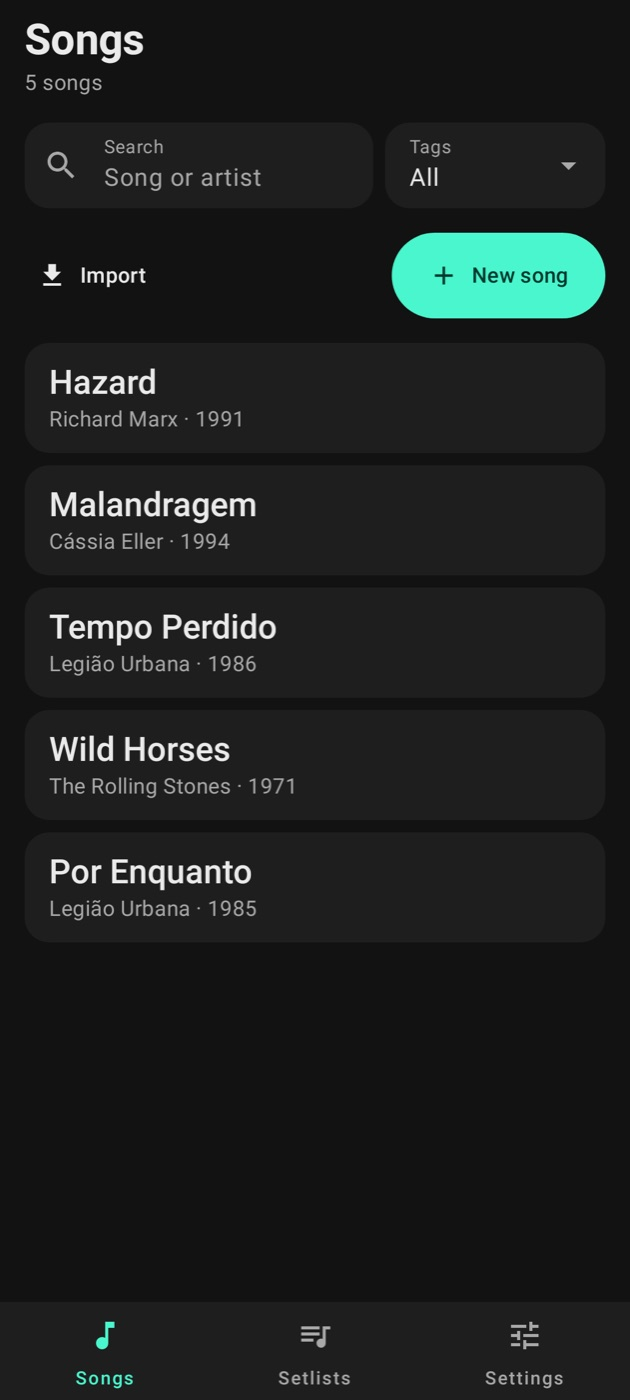
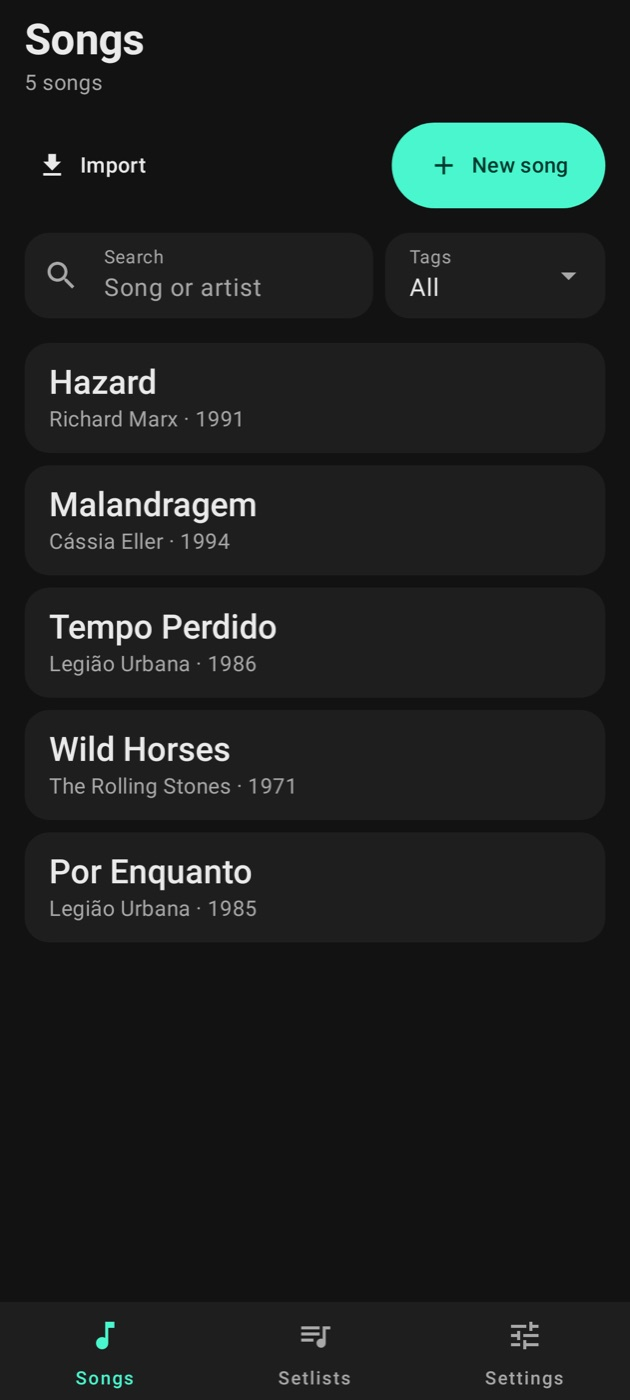
Songs keeps its buttons where Setlists has them · Músicas com os botões no mesmo lugar de Setlists
Import and New come first and the search sits next to the list it filters, so the buttons stay put when switching
tabs.

Import e Novo vêm primeiro e a busca fica colada na lista que ela filtra: os botões não mudam de lugar na troca de aba.

Release-Note: Songs and Setlists have their buttons and search in the same place · Músicas e Setlists têm os botões e a busca no mesmo lugar

Changed region(s): [[0.6032, 0.0614, 0.9651, 0.2457], [0.0603, 0.0921, 0.4222, 0.1536], [0.0603, 0.1843, 0.4222, 0.215]]

diff --git a/app/src/main/java/br/app/stagebook/ui/songs/SongsScreen.kt b/app/src/main/java/br/app/stagebook/ui/songs/SongsScreen.kt
@@ -189,18 +189,18 @@ fun SongsScreen(
                 subtitle = br.app.stagebook.ui.components.songCountText(uiState.total),
                 modifier = Modifier.padding(top = Spacing.s, bottom = Spacing.m),
             ) { br.app.stagebook.ui.components.HomeStatusIcons() }
-            SearchWithTags(
-                query, onQueryChange, stringResource(R.string.songs_search), uiState.tags, uiState.chosenTags, onTagsChange,
-                // selecting, the Import/New row goes away: the list keeps its distance from the search
-                Modifier.padding(bottom = if (selecting) Spacing.m else 0.dp),
-            )
-            // while selecting, the actions are in the top bar
-            if (!selecting) Row(Modifier.padding(vertical = Spacing.m), horizontalArrangement = Arrangement.spacedBy(Spacing.s)) {
+            // while selecting, the actions are in the top bar. Actions first, then what acts on the list next to it: same
+            // order as the Setlists tab
+            if (!selecting) Row(Modifier.padding(bottom = Spacing.m), horizontalArrangement = Arrangement.spacedBy(Spacing.s)) {
                 // secondary at the start, the main action at the end (like Google's apps). Import from sites (with
                 // internet), scan the QR or type the code: one button, one menu.
                 ImportButton(online, onScan, onReceiveCode, Modifier.weight(1f), onSites = onImport, received = received, onReceived = onReceived, onSync = onSync, internetOn = internetOn, localNet = localNet)
                 ActionButton(stringResource(R.string.songs_new), onNewSong, Modifier.weight(1f), icon = AppIcons.Add)
             }
+            SearchWithTags(
+                query, onQueryChange, stringResource(R.string.songs_search), uiState.tags, uiState.chosenTags, onTagsChange,
+                Modifier.padding(bottom = Spacing.m),
+            )
             AnimatedVisibility(!online) {
                 Row(Modifier.padding(bottom = Spacing.s), horizontalArrangement = Arrangement.spacedBy(Spacing.s), verticalAlignment = Alignment.CenterVertically) {
                     Icon(AppIcons.CloudOff, null, tint = MaterialTheme.colorScheme.onSurfaceVariant)
